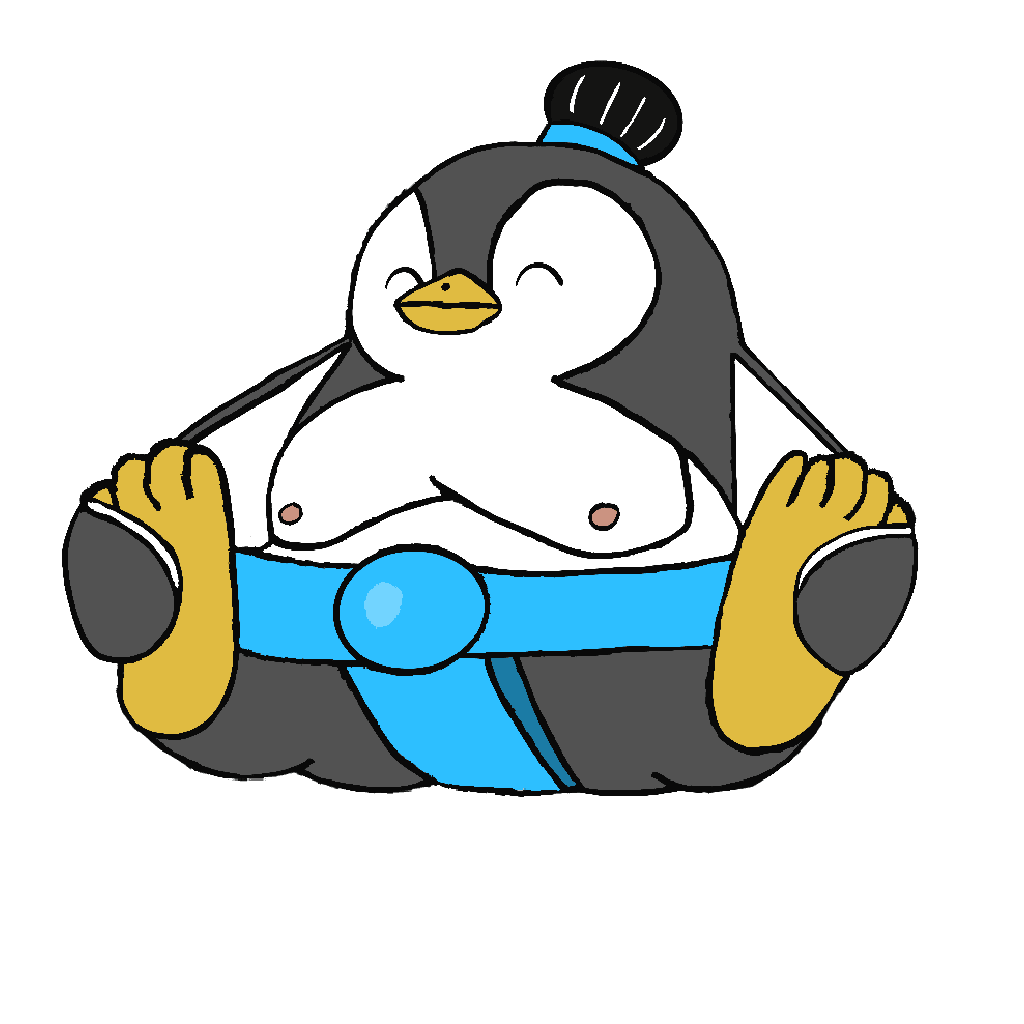
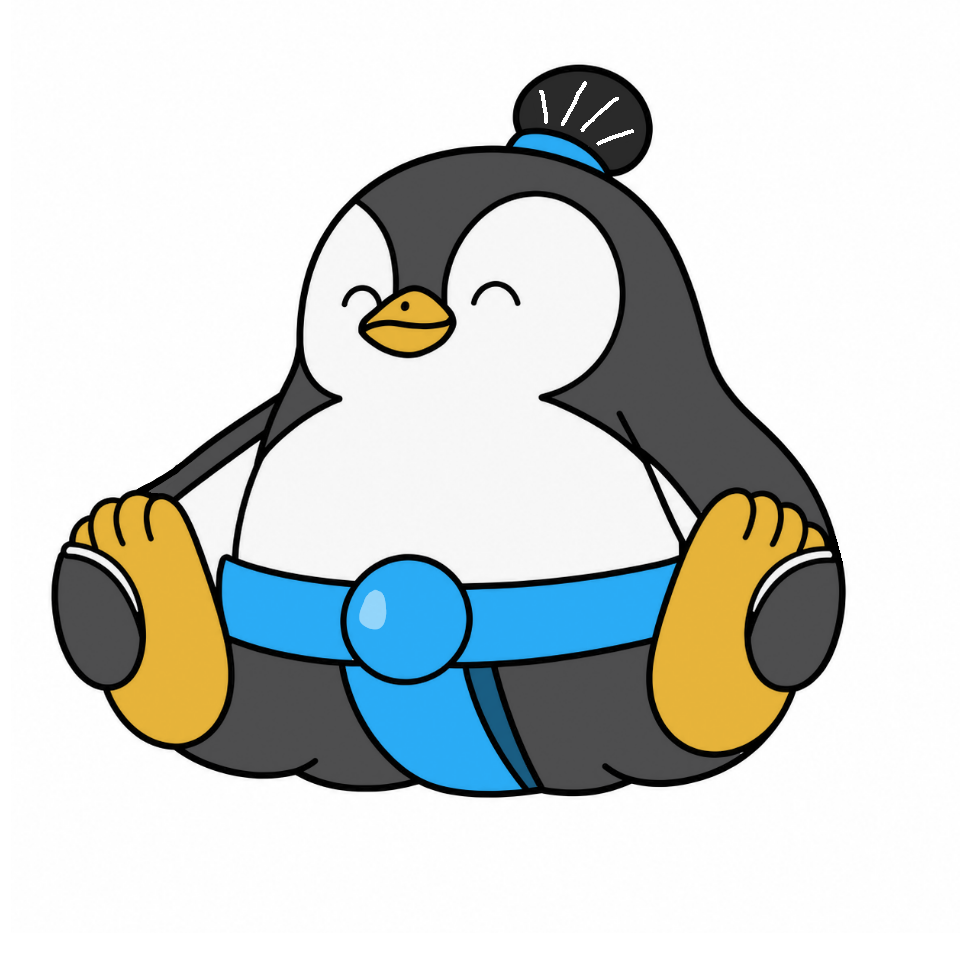
failed bug hands slap attempt, dodge anim enhance

Changed region(s): [[0.0312, 0.0625, 0.9062, 0.8438], [0.375, 0.4688, 0.4688, 0.5]]

diff --git a/client/src/components/GameFighter.jsx b/client/src/components/GameFighter.jsx
@@ -497,9 +497,11 @@ const GameFighter = ({
   const idleHoldUntilRef = useRef(0);
   const IDLE_HOLD_MS = 34; // ~2 frames @60fps
   // FLAP wing-beat: each new flapWingBeatTime from the server snaps the wings
-  // DOWN (flap2) for FLAP_WINGBEAT_MS, then back up (flap1). Change-detected
+  // DOWN (flap2) for FLAP_WINGBEAT_MS, then back up (flap1). Once air charges
+  // are spent, getImageSrc holds the dodge pose until landing. Change-detected
   // against a local clock so it doesn't need server sim-clock alignment.
   const flapBeatRef = useRef({ beat: 0, startedAt: 0 });
+  const lastFlapSHeldRef = useRef(false);
   const FLAP_WINGBEAT_MS = 90; // ~down-stroke hold (snappy wing flap)
 
   const [penguin, setPenguin] = useState({
@@ -555,6 +557,11 @@ const GameFighter = ({
     hitCounter: 0,
     isCrouchStance: false,
     isCrouchStrafing: false,
+    isFlapping: false,
+    flapPhase: null,
+    flapWingBeatTime: 0,
+    flapCharges: 0,
+    flapFastFalling: false,
   });
 
   // PERFORMANCE: Position is rendered IMPERATIVELY, outside React.
@@ -1680,6 +1687,19 @@ const GameFighter = ({
       // Time-based visual windows (hit flash / hit tint / idle sprite hold /
       // unconfirmed predictions): re-render when a window the last render
       // showed as active has expired, so the "off" state actually commits.
+      if (isLocalPlayer) {
+        const p = penguinRef.current;
+        if (p?.isFlapping && p?.flapPhase === "flight") {
+          const sHeld = !!getLocalKeyState()?.s;
+          if (sHeld !== lastFlapSHeldRef.current) {
+            lastFlapSHeldRef.current = sHeld;
+            forceVisualRender();
+          }
+        } else if (lastFlapSHeldRef.current) {
+          lastFlapSHeldRef.current = false;
+        }
+      }
+
       const rendered = renderedHitVisualsRef.current;
       const nowMs = timestamp;
       if (
@@ -2116,6 +2136,8 @@ const GameFighter = ({
           prev.isFlapping !== newState.isFlapping ||
           prev.flapPhase !== newState.flapPhase ||
           prev.flapWingBeatTime !== newState.flapWingBeatTime ||
+          prev.flapCharges !== newState.flapCharges ||
+          prev.flapFastFalling !== newState.flapFastFalling ||
           prev.isSidestepping !== newState.isSidestepping ||
           prev.isSidestepStartup !== newState.isSidestepStartup ||
           prev.isSidestepRecovery !== newState.isSidestepRecovery ||
@@ -4150,8 +4172,10 @@ const GameFighter = ({
   const readyIntroComplete = penguin.isReady && handsDownReached;
 
   // FLAP wing-beat frame. Each new server flapWingBeatTime opens a local
-  // down-stroke window (flap2); otherwise the wings are up (flap1). Ref mutated
-  // during render — same pattern as the idle-hold/last-sprite refs above.
+  // down-stroke window (flap2); otherwise the wings are up (flap1). With no
+  // air charges left or holding S to fast-fall, getImageSrc switches to the
+  // dodge pose for the rest of that flight segment. Ref mutated during render —
+  // same pattern as idle-hold refs.
   if (
     penguin.flapWingBeatTime &&
     penguin.flapWingBeatTime !== flapBeatRef.current.beat
@@ -4161,6 +4185,13 @@ const GameFighter = ({
       startedAt: performance.now(),
     };
   }
+  const flapHoldingFastFall =
+    penguin.flapFastFalling === true ||
+    (isLocalPlayer && !!getLocalKeyState()?.s);
+  const flapUseDodgePose =
+    penguin.isFlapping &&
+    penguin.flapPhase === "flight" &&
+    ((penguin.flapCharges ?? 0) <= 0 || flapHoldingFastFall);
   const flapFrame =
     penguin.isFlapping &&
     flapBeatRef.current.startedAt &&
@@ -4244,7 +4275,8 @@ const GameFighter = ({
     penguin.clinchJoltRecovery,
     penguin.isFlapping,
     penguin.flapPhase,
-    flapFrame
+    flapFrame,
+    flapUseDodgePose
   );
 
   // Hold previous sprite briefly when transitioning to idle to prevent
@@ -4321,8 +4353,11 @@ const GameFighter = ({
   renderedHitVisualsRef.current.tint = showHitTintThisFrame;
   renderedHitVisualsRef.current.hold = effectiveSpriteSrc !== displaySpriteSrc;
   // FLAP wing-beat: when this render committed the down-stroke (flap2), the rAF
-  // loop forces the flip back to flap1 once the beat window expires.
-  renderedHitVisualsRef.current.flapBeat = flapFrame === 2;
+  // loop forces the flip back to flap1 once the beat window expires — unless
+  // we're in the dodge pose (out of charges or fast-falling), which holds until
+  // landing or S is released.
+  renderedHitVisualsRef.current.flapBeat =
+    !flapUseDodgePose && flapFrame === 2;
   // True when this render showed merged (unconfirmed) predictions — the rAF
   // watcher uses it to force the cleanup render once the prediction window
   // (PREDICTION_TIMEOUT_MS) lapses without server confirmation.
@@ -4781,7 +4816,11 @@ const GameFighter = ({
         x={displayPosition.x}
         y={displayPosition.y}
         facing={penguin.facing ?? -1}
-        isActive={penguin.isSlapAttack && !penguin.isFlapping}
+        isActive={
+          penguin.isSlapAttack === true &&
+          penguin.isAttacking === true &&
+          penguin.isFlapping !== true
+        }
         slapAnimation={penguin.slapAnimation}
       />
       <SlapParryEffect position={parryEffectPosition} />

diff --git a/server-io/gameUtils.js b/server-io/gameUtils.js
@@ -714,6 +714,7 @@ function clearAllActionStates(player) {
   player.flapVelocityX = 0;
   player.flapStartTime = 0;
   player.flapWingBeatTime = 0;
+  player.flapFastFalling = false;
   player.flapHitLanded = false;
   player.flapHitLandStartY = 0;
   player.flapHitLandStartX = 0;
@@ -824,6 +825,33 @@ function clearChargeState(player, isCancelled = false) {
   }
 }
 
+// Tear down any in-flight or deferred slap work so a flap liftoff can't leave
+// timers/buffers that re-arm isSlapAttack once isFlapping drops (the root cause
+// of slap-hands VFX bleeding into / after flap).
+function cancelPendingSlapWork(player) {
+  timeoutManager.clearPlayerSpecific(player.id, "slapCycle");
+  timeoutManager.clearPlayerSpecific(player.id, "slapWhiffPause");
+  timeoutManager.clearPlayerSpecific(player.id, "slapStringReset");
+  player.slapCycleEndCallback = null;
+
+  player.pendingSlapCount = 0;
+  player.pendingGrabEnder = false;
+  player.slapStringPosition = 0;
+  player.slapStringWindowUntil = 0;
+  player.slapWhiffCount = 0;
+  player.isSlapWhiffPausing = false;
+  player.currentSlapHitConnected = false;
+  player.isSlapSliding = false;
+  player.slapFacingDirection = null;
+  player.isInStartupFrames = false;
+  player.startupEndTime = 0;
+  player.slapActiveEndTime = 0;
+
+  if (player.inputBuffer && player.inputBuffer.type === "slap") {
+    player.inputBuffer = null;
+  }
+}
+
 // ── FLAP: begin the grounded liftoff telegraph ───────────────────────────
 // Shared by the immediate Space-press path (socketHandlers) and the buffered
 // path (gameFunctions.executeInputBuffer) so the two can't drift. Mirrors the
@@ -853,6 +881,7 @@ function beginFlapStartup(player, now) {
   player.flapVelocityY = 0;
   player.flapVelocityX = 0;
   player.flapWingBeatTime = 0;
+  player.flapFastFalling = false;
   player.flapHitLanded = false;
   player.flapHitLandStartY = 0;
   player.flapHitLandStartX = 0;
@@ -876,16 +905,15 @@ function beginFlapStartup(player, now) {
   }
 
   clearChargeState(player, true);
+  cancelPendingSlapWork(player);
   player.movementVelocity = 0;
+  // Air steering uses A/D but is not ground strafe — clear so stale isStrafing
+  // never leaks into the client delta stream mid-flight.
   player.isStrafing = false;
   player.isPowerSliding = false;
   player.isBraking = false;
   player.isCrouchStance = false;
   player.isCrouchStrafing = false;
-  player.pendingSlapCount = 0;
-  player.pendingGrabEnder = false;
-  player.slapStringPosition = 0;
-  player.slapStringWindowUntil = 0;
   player.isRawParrySuccess = false;
   player.isPerfectRawParrySuccess = false;
   // Cancel any in-progress attack so its VFX/SFX (e.g. the slap-hands effect,
@@ -895,7 +923,9 @@ function beginFlapStartup(player, now) {
   player.isSlapAttack = false;
   player.isChargingAttack = false;
   player.attackType = null;
-  player.slapFacingDirection = null;
+  player.attackStartTime = 0;
+  player.attackEndTime = 0;
+  player.attackCooldownUntil = 0;
   return true;
 }
 

diff --git a/server-io/index.js b/server-io/index.js
@@ -2021,6 +2021,7 @@ function tick(delta) {
         const flapOpponent = room.players.find((p) => p.id !== player.id);
 
         if (player.flapPhase === "startup") {
+          player.flapFastFalling = false;
           // Grounded telegraph. Interruptible — a hit here runs
           // clearAllActionStates and cancels the whole flap.
           if (now >= player.flapStartTime + FLAP_STARTUP_MS) {
@@ -2045,6 +2046,12 @@ function tick(delta) {
             player.actionLockUntil = 0; // free to turn / air-flap immediately
           }
         } else if (player.flapPhase === "flight") {
+          // A/D air-steer is not ground strafe — keep the flag cleared so client
+          // deltas never resurrect waddle/strafe state mid-flight.
+          player.isStrafing = false;
+
+          player.flapFastFalling = !!player.keys.s;
+
           // Vertical integration with a SOFT CEILING (see constants).
           const ceiling = GROUND_LEVEL + FLAP_MAX_HEIGHT;
           const cushionStart = ceiling - FLAP_CEILING_CUSHION;
@@ -2121,6 +2128,7 @@ function tick(delta) {
             emitThrottledScreenShake(room, io, { type: "rope_landing" });
           }
         } else if (player.flapPhase === "landing") {
+          player.flapFastFalling = false;
           // Hit-landing recovers in lockstep with the victim (flapHitRecoverDuration);
           // a whiff uses the longer punish window.
           const recovery = player.flapHitLanded
@@ -2170,6 +2178,7 @@ function tick(delta) {
             player.flapStartTime = 0;
             player.flapLandingTime = 0;
             player.flapWingBeatTime = 0;
+            player.flapFastFalling = false;
             player.flapHitLanded = false;
             player.flapHitLandStartY = 0;
             player.flapHitLandStartX = 0;

diff --git a/client/src/components/SlapAttackHandsEffect.jsx b/client/src/components/SlapAttackHandsEffect.jsx
@@ -123,6 +123,7 @@ const Streak = styled.div`
 const SlapAttackHandsEffect = ({ x, y, facing, isActive, slapAnimation }) => {
   const [hand, setHand] = useState(null);
   const lastSlapRef = useRef(null);
+  const wasActiveRef = useRef(false);
   const handIdCounter = useRef(0);
   const positionCycleRef = useRef(0);
   const handTimeoutRef = useRef(null);
@@ -152,9 +153,13 @@ const SlapAttackHandsEffect = ({ x, y, facing, isActive, slapAnimation }) => {
       }, 200);
     }
 
-    if (!isActive) {
+    // Only clear the slap latch on active→inactive transition. Clearing every
+    // frame while inactive made the effect re-fire on the next active tick even
+    // when slapAnimation never changed (e.g. isFlapping flicker during flight).
+    if (!isActive && wasActiveRef.current) {
       lastSlapRef.current = null;
     }
+    wasActiveRef.current = isActive;
 
     return () => {
       if (handTimeoutRef.current) clearTimeout(handTimeoutRef.current);

diff --git a/client/src/components/getImageSrc.js b/client/src/components/getImageSrc.js
@@ -112,7 +112,8 @@ const getImageSrc = (
   // Flap (flight power-up) — trailing params
   isFlapping,
   flapPhase,
-  flapFrame
+  flapFrame,
+  flapUseDodgePose
 ) => {
   if (ritualAnimationSrc) {
     return ritualAnimationSrc;
@@ -153,11 +154,13 @@ const getImageSrc = (
   }
   // Flap: grounded startup uses the rope-jump-style recovery pose; in the air
   // we toggle between the two flap frames (the wing-beat) — flapFrame is the
-  // client-computed 1|2 from the last flapWingBeatTime (see GameFighter).
+  // client-computed 1|2 from the last flapWingBeatTime. During flight, use the
+  // dodge pose when out of air charges or holding S to fast-fall (see GameFighter).
   if (isFlapping) {
     // Grounded startup AND the landing/recovery (whiff or post-slam auto-ground)
     // both use the rope-jump-style recovery pose rather than holding a flap frame.
     if (flapPhase === "startup" || flapPhase === "landing") return recovering;
+    if (flapUseDodgePose) return dodging;
     return flapFrame === 2 ? flap2 : flap1;
   }
   // Recovery is checked first because isSidestepping stays true through the

diff --git a/server-io/constants.js b/server-io/constants.js
@@ -39,7 +39,7 @@ const DELTA_TRACKED_PROPS = [
   'snowballs', 'pumoArmy', 'snowballCooldown', 'pumoArmyCooldown', 'snowballThrowsRemaining', 'pumoArmySpawnsRemaining',
   'isPowerSliding', 'isBraking', 'movementVelocity', 'isStrafing',
   'isRopeJumping', 'ropeJumpPhase', 'sizeMultiplier', 'isGassed',
-  'isFlapping', 'flapPhase', 'flapCharges', 'flapWingBeatTime',
+  'isFlapping', 'flapPhase', 'flapCharges', 'flapWingBeatTime', 'flapFastFalling',
   'isSidestepping', 'isSidestepStartup', 'isSidestepRecovery',
   'isSlapParryRecovering',
   'isHitFalling', 'isSidestepHitReturn',

diff --git a/server-io/gameFunctions.js b/server-io/gameFunctions.js
@@ -405,6 +405,7 @@ function handleWinCondition(room, loser, winner, io, winType) {
       p.flapStartTime = 0;
       p.flapLandingTime = 0;
       p.flapWingBeatTime = 0;
+      p.flapFastFalling = false;
       p.flapHitLanded = false;
       p.flapHitLandStartY = 0;
       p.flapHitLandStartX = 0;

diff --git a/server-io/playerCleanup.js b/server-io/playerCleanup.js
@@ -71,6 +71,7 @@ function cleanupPlayerStates(player) {
   player.flapStartTime = 0;
   player.flapLandingTime = 0;
   player.flapWingBeatTime = 0;
+  player.flapFastFalling = false;
   player.flapHitLanded = false;
   player.flapHitLandStartY = 0;
   player.flapHitLandStartX = 0;

diff --git a/server-io/playerFactory.js b/server-io/playerFactory.js
@@ -198,6 +198,7 @@ function createInitialPlayerState(overrides = {}) {
     flapStartTime: 0,
     flapLandingTime: 0,
     flapWingBeatTime: 0, // Timestamp of the last flap — drives the flap2→flap1 wing-beat
+    flapFastFalling: false, // Holding S during flight — fast-fall dive (synced for sprite)
     flapHitLanded: false, // Did the descending body-slam connect this flight?
     lastFlapChargeTime: 0, // Throttles air flaps (FLAP_CHARGE_COOLDOWN_MS)
     // Hit-landing tween: when the body-slam connects mid-air the flapper is

diff --git a/server-io/roomManagement.js b/server-io/roomManagement.js
@@ -233,6 +233,7 @@ function resetRoomAndPlayers(room, io) {
     player.flapStartTime = 0;
     player.flapLandingTime = 0;
     player.flapWingBeatTime = 0;
+    player.flapFastFalling = false;
     player.flapHitLanded = false;
     player.flapHitLandStartY = 0;
     player.flapHitLandStartX = 0;